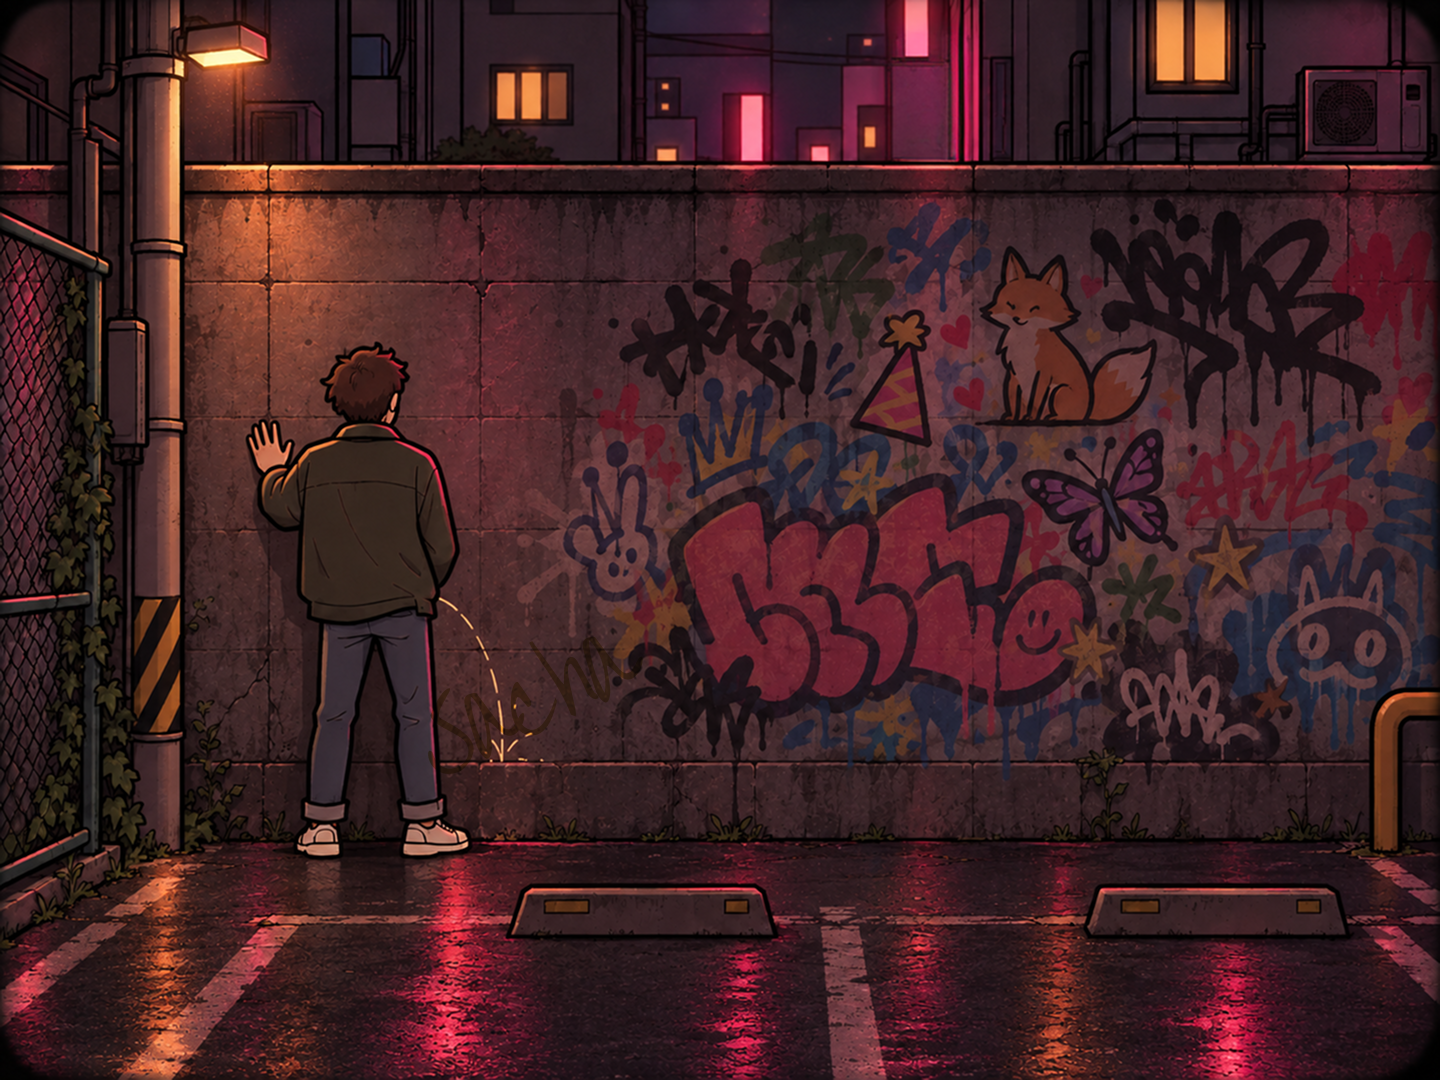
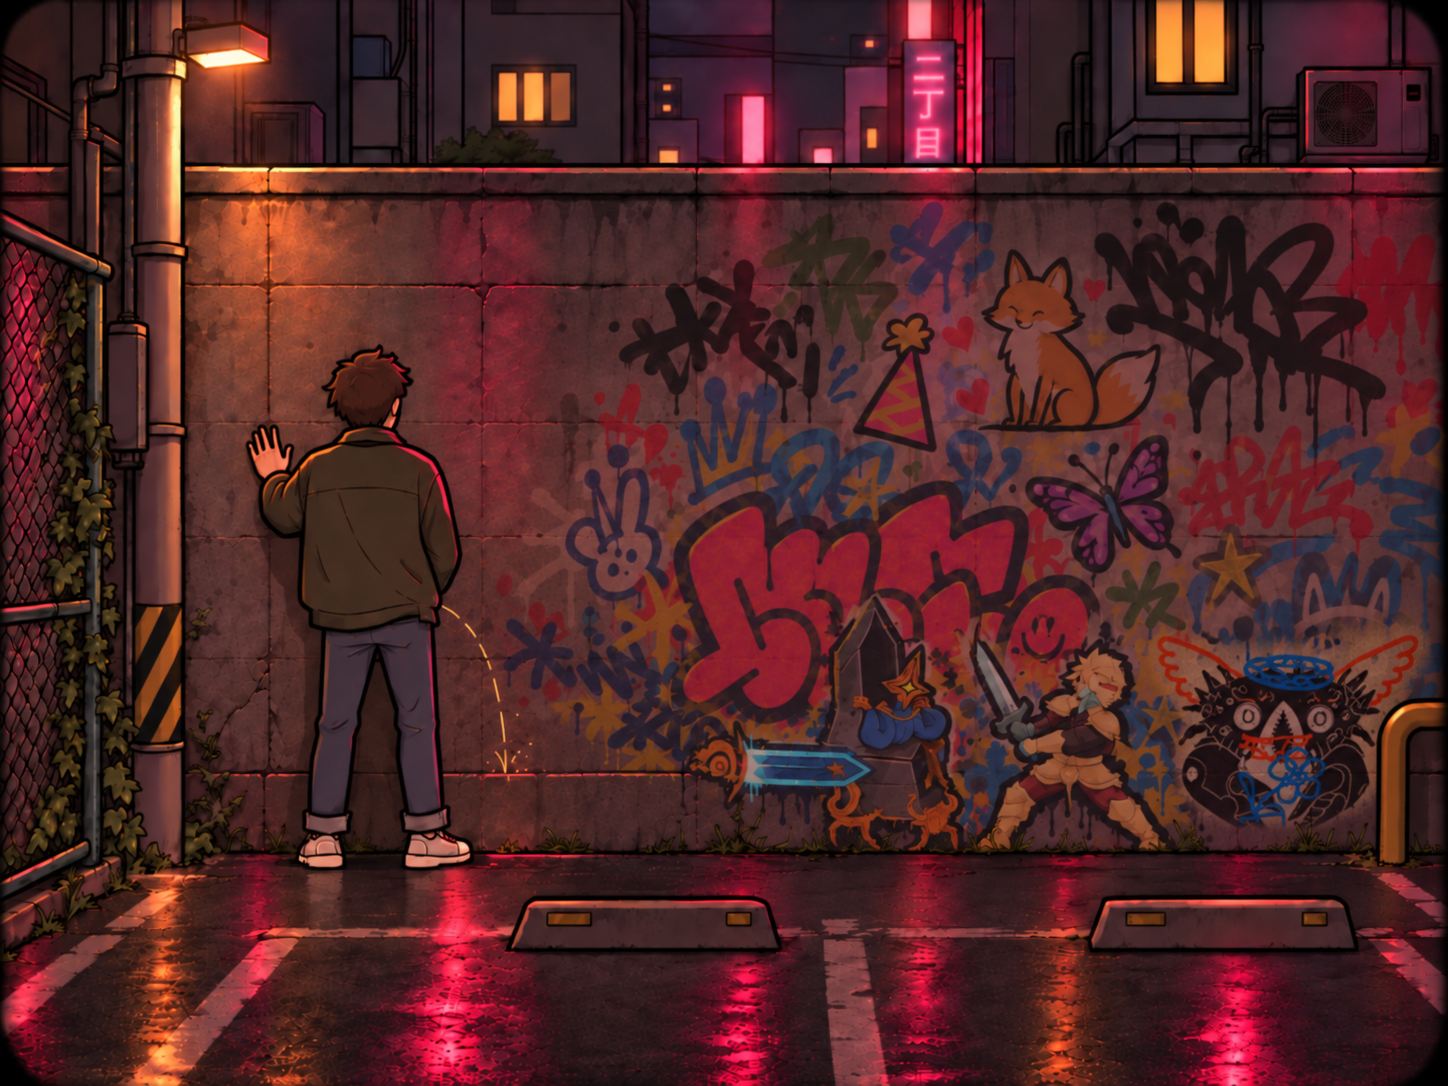
update

diff --git a/game.js b/game.js
@@ -42,6 +42,8 @@
     $('right-emoji').setAttribute('aria-label', rightIcons[state.rightIcon][1]);
     $('play-music').disabled = state.leftIcon !== 0 || state.rightIcon !== 0;
     $('birthday-ending').hidden = !['ending-reveal', 'ending'].includes(state.stage);
+    // Reveal both effects with the birthday title, before the party backdrop fades in.
+    $('party-effects').hidden = $('birthday-ending').hidden;
     $('ending-mementos').hidden = state.stage !== 'ending-mementos';
     $('console-hotspot').hidden = !(state.stage === 'console-explore' && state.scene === 'dj-gone');
     $('back-to-dj-booth').hidden = !(state.stage === 'console-explore' && state.scene === 'dj-console');
@@ -167,7 +169,21 @@
       render();
     });
   }
+  // Staggered glitter flakes stay behind the dedication and controls.
+  for (let i = 0; i < 150; i++) {
+    const spark = document.createElement('i');
+    spark.style.cssText = `--x:${(i * 37 + 11) % 100}%;--drift:${(i % 2 ? 1 : -1) * (25 + i % 55)}px;--duration:${10 + i % 10}s;--delay:-${i * 1.73}s;--size:${8 + i % 11}px;--tone:${i % 3 === 0 ? '#edb6c5' : '#f6dba5'}`;
+    $('party-glitter').appendChild(spark);
+  }
   const endingWait = ms => new Promise(resolve => setTimeout(resolve, ms));
+  function schedulePartyDance() {
+    setTimeout(() => {
+      if (state.scene !== 'party' || !state.stage.startsWith('ending')) return;
+      $('game').classList.add('party-dancing');
+      state.scene = 'party-dance';
+      render();
+    }, 3000);
+  }
   async function birthdaySequence() {
     $('game').classList.add('ending-transition');
     move('ending-mementos', 'bar');
@@ -186,6 +202,7 @@
     title.style.transform = 'translateY(' + offset + 'px)';
     title.animate([{opacity:0, transform:'translateY(' + offset + 'px) scale(.75)'}, {opacity:1, transform:'translateY(' + offset + 'px) scale(1)'}], {duration:700,easing:'cubic-bezier(.2,.8,.2,1)'});
     move('ending-reveal', 'party');
+    schedulePartyDance();
     await endingWait(900);
     const descent = title.animate([{transform:'translateY(' + offset + 'px)'},{transform:'translateY(0)'}], {duration:2600,easing:'ease-in-out',fill:'forwards'});
     await descent.finished;
@@ -486,6 +503,14 @@
     state.djGone = true;
     state.stage = 'console-explore';
     state.scene = 'dj-console';
+  }
+  if (['localhost', '127.0.0.1', '[::1]'].includes(location.hostname) && new URLSearchParams(location.search).get('preview') === 'ending') {
+    state.stage = 'ending';
+    state.scene = 'party';
+    schedulePartyDance();
+    $('birthday-ending').classList.add('show-signature', 'show-music');
+    $('music-toggle').inert = false;
+    $('music-toggle').textContent = 'Play music';
   }
   render();
 })();

diff --git a/style.css b/style.css
@@ -41,3 +41,21 @@
 #birthday-ending .signature,#birthday-ending #music-toggle{opacity:0;visibility:hidden;transition:opacity 1.6s ease,visibility 1.6s}
 #birthday-ending.show-signature .signature{opacity:1;visibility:visible}
 #birthday-ending.show-music #music-toggle{opacity:1;visibility:visible}
+
+/* Celebratory mirror-ball reflections, behind the ending text. */
+#party-effects{position:absolute;inset:0;pointer-events:none;overflow:hidden;mix-blend-mode:screen;animation:party-effects-in .7s ease both}
+.mirror-light{position:absolute;inset:0;width:100%;height:100%;overflow:hidden}
+.mirror-rays{transform-origin:100px 83px;animation:mirror-sweep 8s ease-in-out infinite alternate}
+.mirror-glow{opacity:.08;filter:blur(12px);animation:mirror-shimmer 2.8s ease-in-out infinite alternate}
+#party-glitter{position:absolute;inset:0;overflow:hidden}
+#party-glitter i{position:absolute;left:var(--x);top:-4%;width:var(--size);height:var(--size);border-radius:1px;background:var(--tone);box-shadow:0 0 10px var(--tone);opacity:0;animation:glitter-drift var(--duration) linear var(--delay) infinite}
+@keyframes party-effects-in{from{opacity:0}to{opacity:1}}
+@keyframes mirror-sweep{0%{transform:rotate(-12deg);opacity:.5}35%{opacity:1}70%{opacity:.55}100%{transform:rotate(15deg);opacity:.95}}
+@keyframes mirror-shimmer{from{opacity:.12}to{opacity:.5}}
+@keyframes glitter-drift{0%{transform:translate(0,0);opacity:0}15%{opacity:.85}38%{opacity:.35}57%{opacity:.95}80%{opacity:.5}100%{transform:translate(var(--drift),80vh) rotate(300deg);opacity:0}}
+@media(prefers-reduced-motion:reduce){#party-effects,.mirror-rays,.mirror-glow{animation:none}.mirror-rays{opacity:.3}.mirror-glow{opacity:.06}#party-glitter i{display:none}}
+
+#party-glitter i:nth-child(3n){clip-path:polygon(50% 0,62% 38%,100% 50%,62% 62%,50% 100%,38% 62%,0 50%,38% 38%)}
+#party-glitter i:nth-child(3n + 1){height:calc(var(--size)*.65)}
+
+#game.party-dancing .scene{transition:opacity .7s ease-in-out}

diff --git a/index.html b/index.html
@@ -30,6 +30,15 @@
 <img id="dj-gone" class="scene" src="backgrounds/dj-disappear.png" alt="The DJ has disappeared, leaving the console unattended." aria-hidden="true">
 <img id="dj-console" class="scene" src="backgrounds/dj-console.png" alt="A close-up of the DJ control console." aria-hidden="true">
 <img id="party" class="scene" src="backgrounds/bar-overview-party.png?v=aaf18424ee8a" alt="The bar is decorated for a joyful birthday party." aria-hidden="true">
+<img id="party-dance" class="scene" src="backgrounds/bar-overview-party-dance.png" alt="The birthday party guests dance together in the bar." aria-hidden="true">
+</div>
+<div id="party-effects" aria-hidden="true" hidden>
+<svg class="mirror-light" viewBox="0 0 1000 750" preserveAspectRatio="none">
+<defs><radialGradient id="beam-fade" cx="0" cy="0" r="1" gradientUnits="userSpaceOnUse" gradientTransform="translate(100 83) scale(900)"><stop stop-color="#ffe3b0" stop-opacity=".85"/><stop offset=".65" stop-color="#e8a7be" stop-opacity=".32"/><stop offset="1" stop-color="#e8a7be" stop-opacity="0"/></radialGradient></defs>
+<g fill="url(#beam-fade)" class="mirror-rays"><path d="M100 83 L1000 170 L1000 300 Z"/><path d="M100 83 L860 750 L630 750 Z"/><path d="M100 83 L320 750 L175 750 Z"/><path d="M100 83 L0 480 L0 370 Z"/><path d="M100 83 L1000 450 L1000 515 Z"/><path d="M100 83 L520 750 L450 750 Z"/></g>
+<circle class="mirror-glow" cx="100" cy="83" r="28" fill="#ffe0bd"/>
+</svg>
+<div id="party-glitter"></div>
 </div>
 <p id="prompt" hidden aria-live="polite"></p>
 <section id="console-puzzle" aria-label="DJ console puzzle" hidden>
